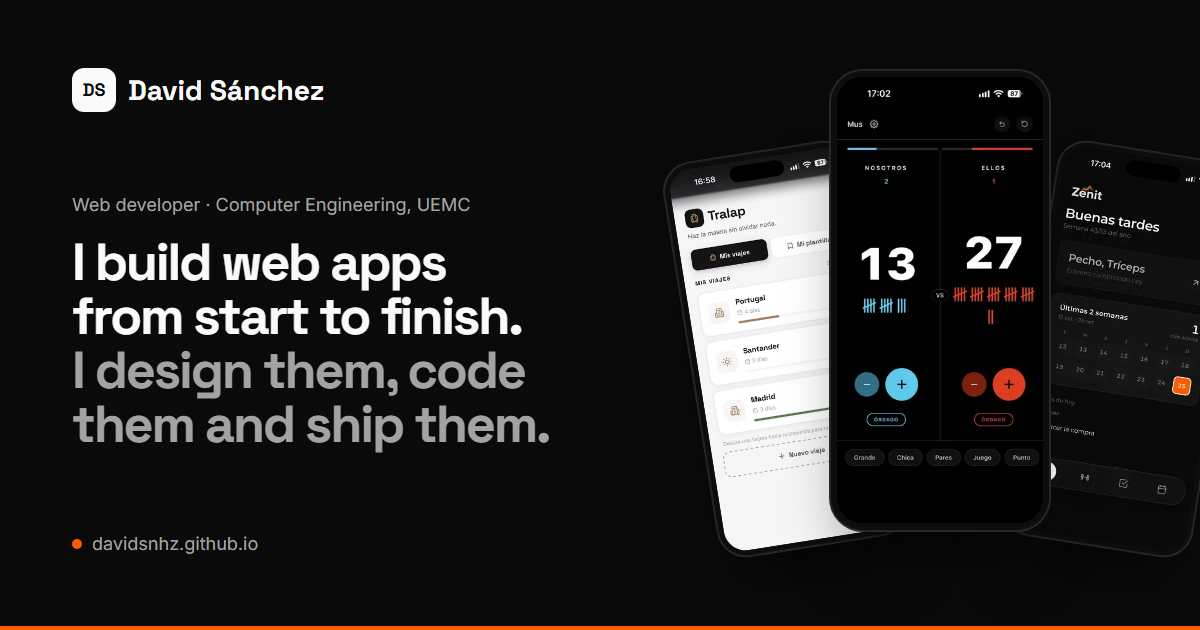
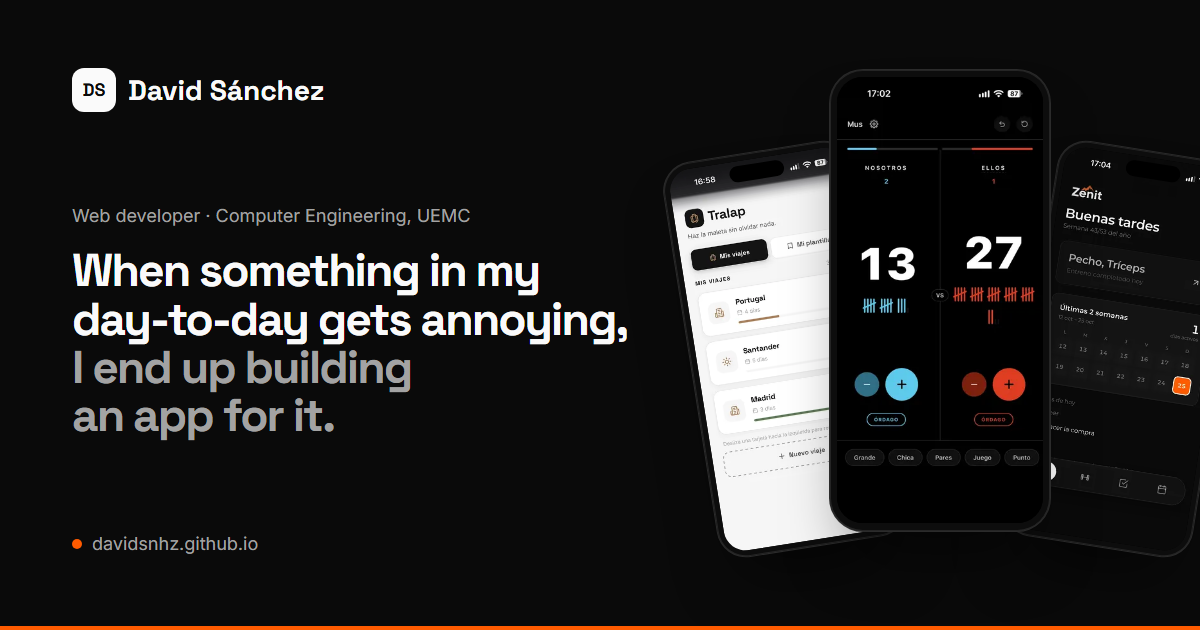
content: nuevo titular del hero y quita "con los colegas"
- ES: "Cuando algo del día a día me da guerra, acabo haciéndole una app."
- EN: "When something in my day-to-day gets annoying, I end up building an app for it."
- Regenera las imágenes Open Graph con el titular nuevo

Changed region(s): [[0.0617, 0.3921, 0.5242, 0.7238], [0.0617, 0.3016, 0.4008, 0.3619]]

diff --git a/src/i18n/ui.ts b/src/i18n/ui.ts
@@ -21,10 +21,10 @@ const es = {
   'id.contact': 'contacto',
 
   'hero.role': 'Desarrollador web · Ingeniería Informática, UEMC',
-  'hero.title.a': 'Hago apps web de principio a fin.',
-  'hero.title.b': 'Las diseño, las programo y las publico.',
+  'hero.title.a': 'Cuando algo del día a día me da guerra,',
+  'hero.title.b': 'acabo haciéndole una app.',
   'hero.text':
-    'Estudio 3º de Ingeniería Informática y me encanta todo lo que tiene que ver con la informática y la IA. Por ahora he hecho un marcador para jugar al mus con los colegas, una app para hacer la maleta sin dejarte nada y otra para llevar el gimnasio al día.',
+    'Estudio 3º de Ingeniería Informática y me encanta todo lo que tiene que ver con la informática y la IA. Por ahora he hecho un marcador para jugar al mus, una app para hacer la maleta sin dejarte nada y otra para llevar el gimnasio al día.',
   'hero.cta.projects': 'Ver proyectos',
   'hero.cta.contact': 'Contacto',
 
@@ -99,10 +99,10 @@ const en: Record<UiKey, string> = {
   'id.contact': 'contact',
 
   'hero.role': 'Web developer · Computer Engineering, UEMC',
-  'hero.title.a': 'I build web apps from start to finish.',
-  'hero.title.b': 'I design them, code them and ship them.',
+  'hero.title.a': 'When something in my day-to-day gets annoying,',
+  'hero.title.b': 'I end up building an app for it.',
   'hero.text':
-    "I'm a third-year Computer Engineering student and I love anything to do with computing and AI. So far I've built a scorekeeper for playing mus (a Spanish card game) with friends, an app to pack your suitcase without forgetting anything and another one to keep my gym routine on track.",
+    "I'm a third-year Computer Engineering student and I love anything to do with computing and AI. So far I've built a scorekeeper for playing mus (a Spanish card game), an app to pack your suitcase without forgetting anything and another one to keep my gym routine on track.",
   'hero.cta.projects': 'See projects',
   'hero.cta.contact': 'Contact',
 
